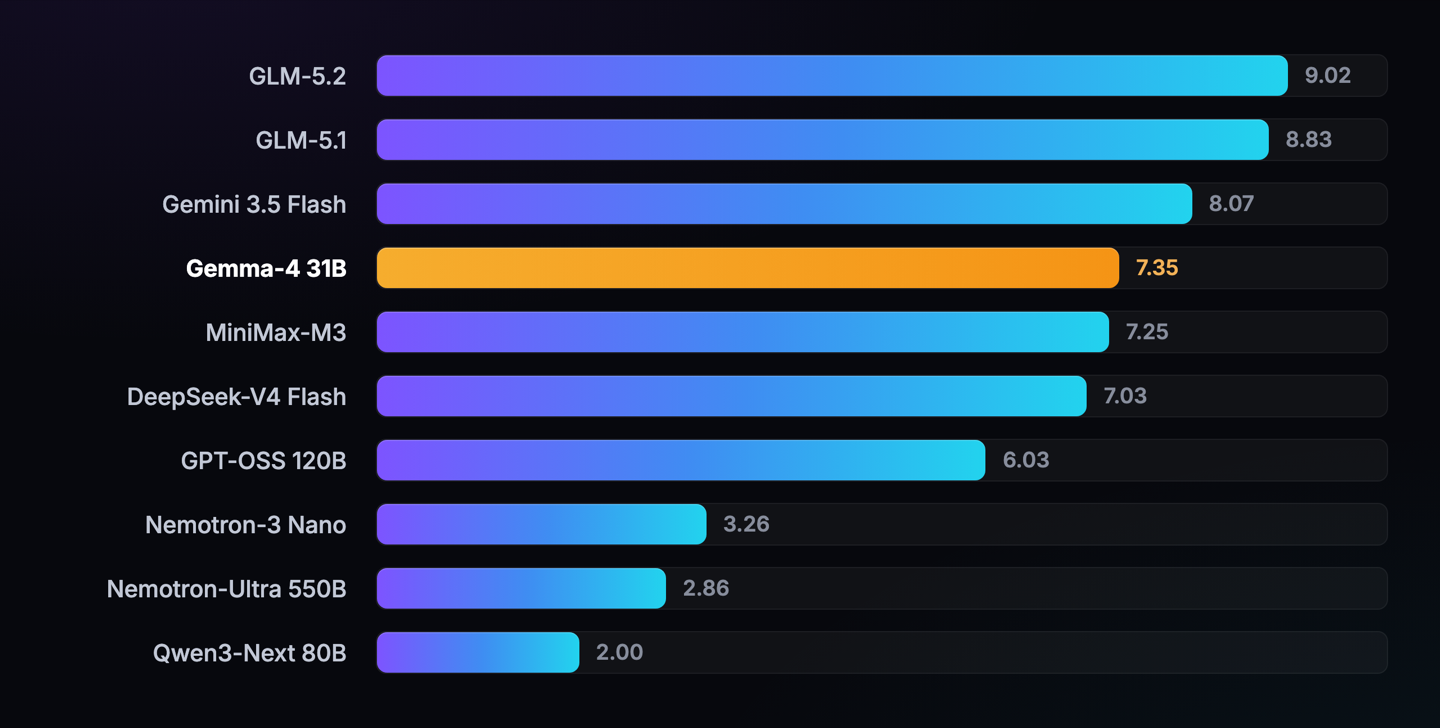
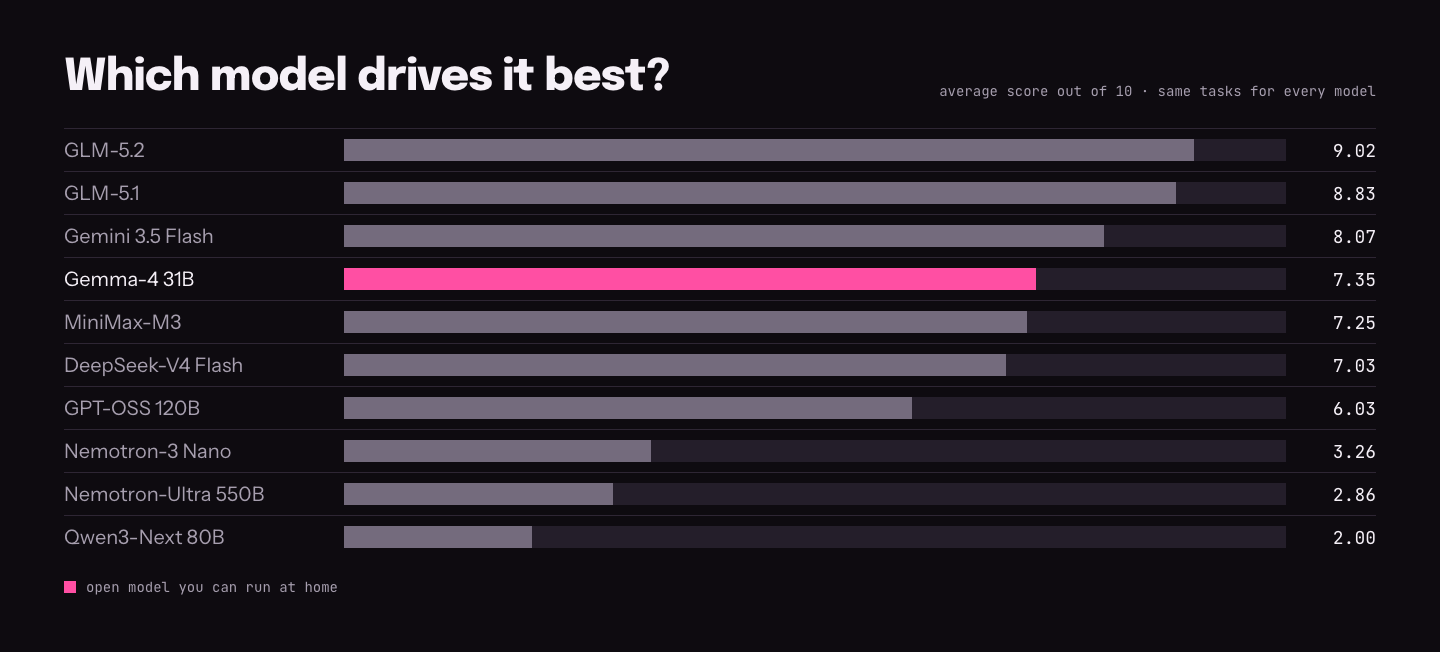
- the repository front page carries the new identity: pink mark, "Built for day 300." tagline, pink badges, and a hero and benchmark chart redrawn in the same flat night-and-pink style, so the first thing a visitor sees matches the app and the website - the hero now shows what Chalie does (remembers

diff --git a/README.md b/README.md
@@ -1,22 +1,22 @@
 <p align="center">
-  <img src="logo.png" alt="Chalie" width="180">
+  <img src="logo.svg" alt="Chalie" width="120">
 </p>
 
 <h1 align="center">Chalie</h1>
 
 <p align="center">
-  <strong>It thinks while you're not looking.</strong><br>
+  <strong>Built for day 300.</strong><br>
   An open-source personal AI that runs on your own machine — it remembers what matters and acts only within the rules you set.
 </p>
 
 <p align="center">
-  <a href="https://github.com/chalie-ai/chalie/tags"><img src="https://img.shields.io/github/v/tag/chalie-ai/chalie?style=for-the-badge&color=7c3aed" alt="Release"></a>
-  <a href="LICENSE"><img src="https://img.shields.io/badge/License-Apache%202.0-06b6d4?style=for-the-badge" alt="License"></a>
-  <a href="https://chalie.ai/blog/2026-06-23-ten-models-one-assistant/"><img src="https://img.shields.io/badge/benchmark-10%20models-ec4899?style=for-the-badge" alt="Benchmark"></a>
-  <a href="https://chalie.ai/docs"><img src="https://img.shields.io/badge/docs-chalie.ai-7c3aed?style=for-the-badge" alt="Docs"></a>
+  <a href="https://github.com/chalie-ai/chalie/tags"><img src="https://img.shields.io/github/v/tag/chalie-ai/chalie?style=for-the-badge&color=FF4FA3" alt="Release"></a>
+  <a href="LICENSE"><img src="https://img.shields.io/badge/License-Apache%202.0-FF4FA3?style=for-the-badge" alt="License"></a>
+  <a href="https://chalie.ai/blog/2026-06-23-ten-models-one-assistant/"><img src="https://img.shields.io/badge/benchmark-10%20models-FF4FA3?style=for-the-badge" alt="Benchmark"></a>
+  <a href="https://chalie.ai/docs"><img src="https://img.shields.io/badge/docs-chalie.ai-FF4FA3?style=for-the-badge" alt="Docs"></a>
 </p>
 
-<p align="center"><strong>📖 <a href="https://chalie.ai/docs">Full documentation →</a></strong></p>
+<p align="center"><strong><a href="https://chalie.ai/docs">Full documentation →</a></strong></p>
 
 ```bash
 curl -fsSL https://chalie.ai/install | bash
@@ -25,26 +25,26 @@ chalie     # → http://localhost:31025
 
 > **Beta — on purpose.** The bar is software you'd trust with your own life's admin, and it isn't all the way there yet. Hit a sharp edge? [Open an issue](https://github.com/chalie-ai/chalie/issues) — we respond fast.
 
-<p align="center"><img src="assets/chalie-hero.png" alt="How Chalie works — it perceives, remembers, reasons, and acts on your behalf, behind an Allow / Ask / Deny gate" width="100%"></p>
+<p align="center"><img src="assets/chalie-hero.png" alt="Chalie at a glance — it remembers what matters across days, acts only within your Allow / Ask / Deny rules, and shows every step it takes" width="100%"></p>
 
 ## Why Chalie is different
 
-Most AI tools forget you the moment you close the tab. Chalie runs on your own machine as a **reasoning engine that keeps working while you step away**: it remembers what matters and lets the rest go, and acts only behind an **Allow / Ask / Deny** policy spanning you, its own background work, and other agents. One SQLite file, credentials encrypted at rest, zero telemetry, encrypted whole-instance backup — no Redis, no Postgres, no queue, just one Python process.
+Most AI tools forget you the moment you close the tab. Chalie runs on your own machine and is **built for day 300**: it remembers what matters and lets the rest go, and acts only within an **Allow / Ask / Deny** policy spanning your chats, its own background work, and other apps. One SQLite file, credentials encrypted at rest, zero telemetry, encrypted whole-instance backup — no Redis, no Postgres, no queue, just one Python process.
 
 ## What it can do today
 
 | | |
 |---|---|
-| 🧠 **Self-managing memory** | A background pass distills conversation into durable facts and remembered moments — recalled automatically, never something you save by hand. |
-| 🎯 **Goals & proactive research** | Spots goals from casual mentions; researches topics in the background before you ask. |
-| 👁 **Vision** | Reads photos, screenshots, and scans — and indexes them so you can find an image by what's in it. |
-| 🌐 **Real web browsing** | Drives a live browser: clicks, fills forms, scrolls, and inspects its own screenshots. |
-| 🔌 **MCP, in and out** | Connects to remote MCP servers and exposes its own tools to other agents. |
-| 📬 **Email, calendar, contacts** | IMAP, CalDAV, CardDAV — the accounts you already have. |
-| 🗓 **Scheduler** | Natural-language recurring jobs. |
-| 🧰 **Files, shell & code** | Searches files, runs guarded shell commands, and delegates coding tasks to an agent that writes and runs TypeScript in its own persistent, sandboxed workspace. |
-| 🎙 **Voice, fully local** | Moonshine STT + Kokoro TTS, both ONNX. No cloud transcription, ever. |
-| 💾 **Backup & restore** | Snapshot the whole instance to one file, optionally AES-256 encrypted. |
+| **Self-managing memory** | A background pass distills conversation into durable facts and remembered moments — recalled automatically, never something you save by hand. |
+| **Goals & proactive research** | Spots goals from casual mentions; researches topics in the background before you ask. |
+| **Vision** | Reads photos, screenshots, and scans — and indexes them so you can find an image by what's in it. |
+| **Real web browsing** | Drives a live browser: clicks, fills forms, scrolls, and inspects its own screenshots. |
+| **MCP, in and out** | Connects to remote MCP servers and exposes its own tools to other agents. |
+| **Email, calendar, contacts** | IMAP, CalDAV, CardDAV — the accounts you already have. |
+| **Scheduler** | Natural-language recurring jobs. |
+| **Files, shell & code** | Searches files, runs guarded shell commands, and delegates coding tasks to an agent that writes and runs TypeScript in its own persistent, sandboxed workspace. |
+| **Voice, fully local** | Moonshine STT + Kokoro TTS, both ONNX. No cloud transcription, ever. |
+| **Backup & restore** | Snapshot the whole instance to one file, optionally AES-256 encrypted. |
 
 ## Which model drives it best?
 
@@ -60,7 +60,7 @@ curl -fsSL https://chalie.ai/install | bash
 chalie     # → http://localhost:31025 · Anthropic, Gemini, OpenAI, +17 more, or any OpenAI-compatible host
 ```
 
-**Fully local with Ollama** — nothing leaves your network:
+**Fully local with Ollama** — nothing leaves your network except the web lookups you allow:
 ```bash
 ollama pull gemma4:31b   # the open model that placed in the benchmark's front pack
 ```
@@ -99,7 +99,7 @@ What the runtime itself needs — a model's own requirements are separate:
 
 ## How it's built
 
-One Python process. Flask + `flask-sock` WebSocket. SQLite with `sqlite-vec` and FTS5 for semantic + lexical recall. Vanilla ES6 modules on the frontend — no build step. The whole cognitive runtime — memory, goals, scheduler, voice — runs as daemon threads inside that one process, and different cognitive functions can use different models.
+One Python process. Flask + `flask-sock` WebSocket. SQLite with `sqlite-vec` and FTS5 for semantic + lexical recall. A Vue frontend, shipped prebuilt. The whole cognitive runtime — memory, goals, scheduler, voice — runs as daemon threads inside that one process, and different cognitive functions can use different models.
 
 Curious? → [Architecture & internals](https://chalie.ai/docs) · [Schema](backend/schema.sql)
 
@@ -128,9 +128,9 @@ Full documentation lives at [chalie.ai](https://chalie.ai).
 
 | | |
 |---|---|
-| 📘 **[Guide](https://chalie.ai/guide)** | Setup, providers, and day-to-day usage. |
-| 🏗 **[Docs](https://chalie.ai/docs)** | Technical reference and architecture. |
-| 🤝 **[Contributing](https://chalie.ai/contribute)** | How to get involved and ship a PR. |
+| **[Guide](https://chalie.ai/guide)** | Setup, providers, and day-to-day usage. |
+| **[Docs](https://chalie.ai/docs)** | Technical reference and architecture. |
+| **[Contributing](https://chalie.ai/contribute)** | How to get involved and ship a PR. |
 
 ## Community
 
